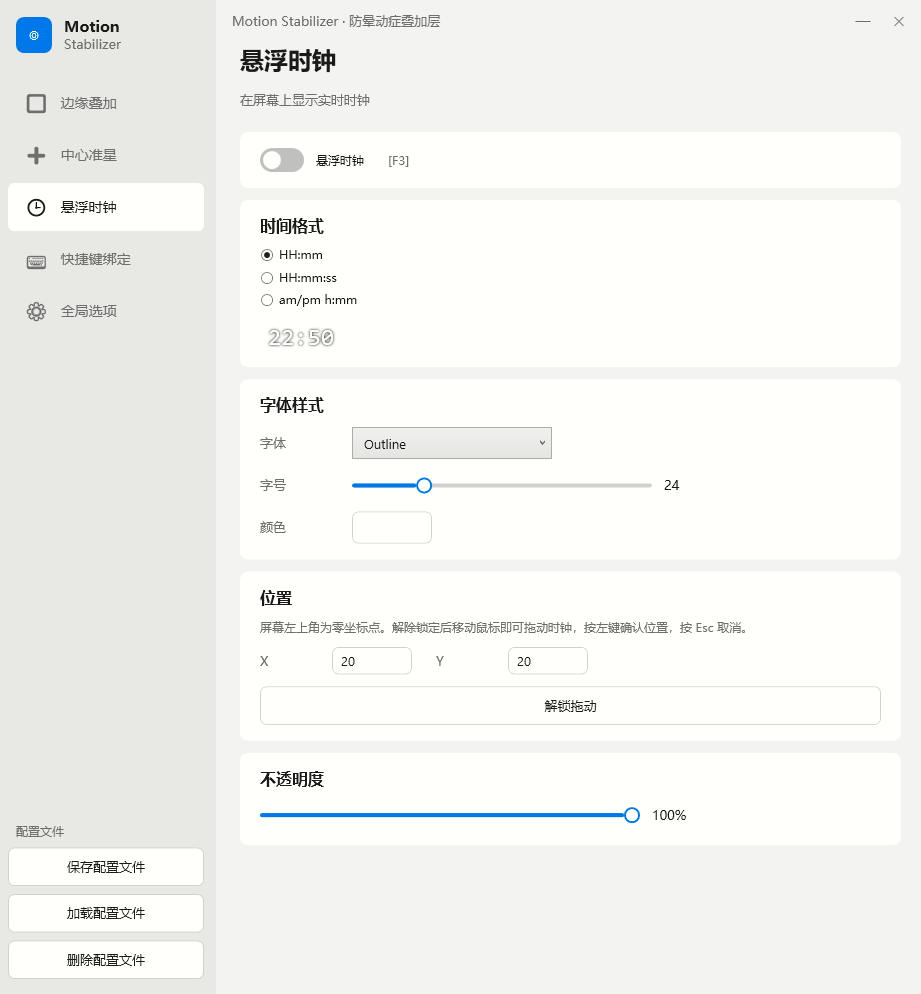
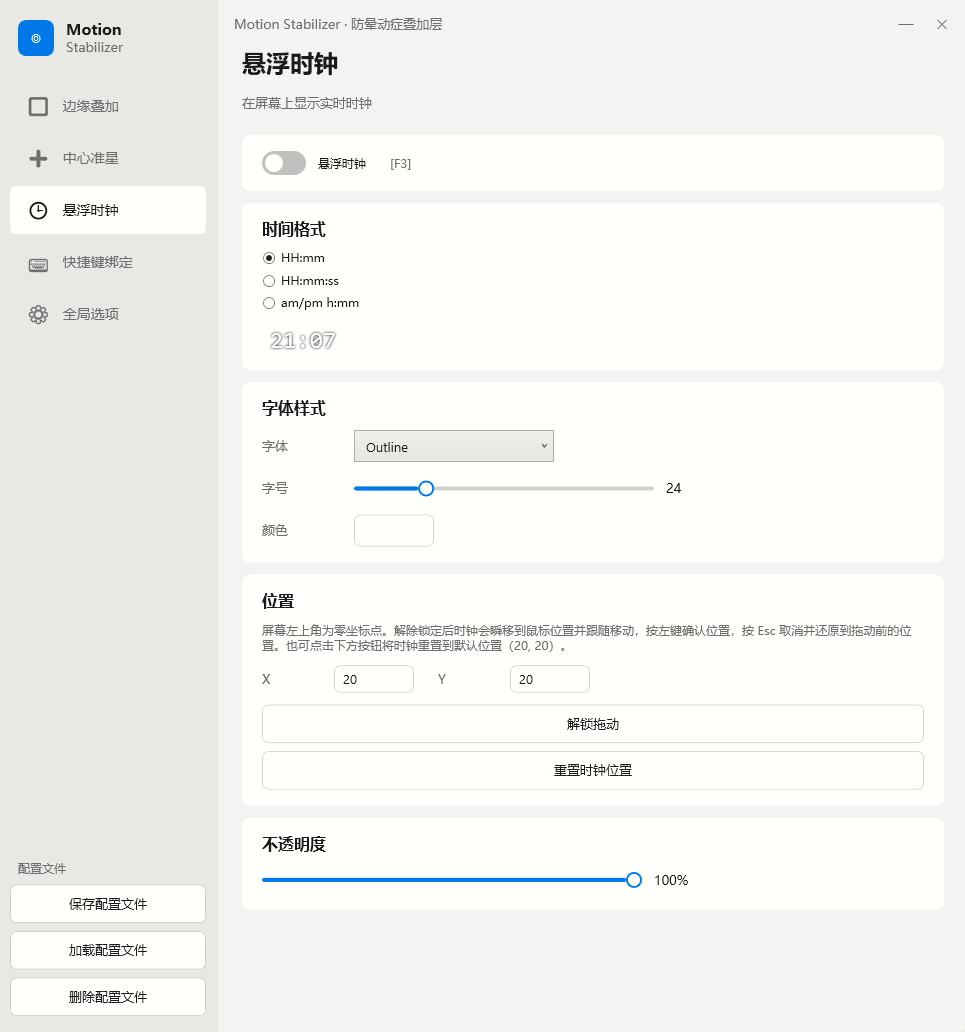
docs: update overlay and clock screenshots, add options and hotkeys page screenshots, fix global hotkey description

diff --git a/README.md b/README.md
@@ -42,7 +42,7 @@
 
 - **中心准星 (Crosshair)** — 在屏幕中心绘制准星，提供视觉焦点
 - **悬浮时钟 (Floating Clock)** — 可拖动的实时时钟，支持多种时间格式和描边字体
-- **全局快捷键 (Global Hotkeys)** — 在游戏中随时切换设置，支持 F1–F11 等快捷键
+- **全局快捷键 (Global Hotkeys)** — 在游戏中随时用全局快捷键切换设置
 - **多显示器支持 (Multi-Monitor)** — 自动识别所有显示器，支持在全局选项中选择**目标显示器**（仅在该屏渲染叠加层），边缘叠加、动态圆点和准星在多屏环境下正确定位与渲染，支持混合 DPI 显示器（PerMonitorV2）
 - **多语言支持** — 中文 / English
 - **配置文件管理** — 保存 / 加载 / 删除自定义配置方案，修改即自动保存
